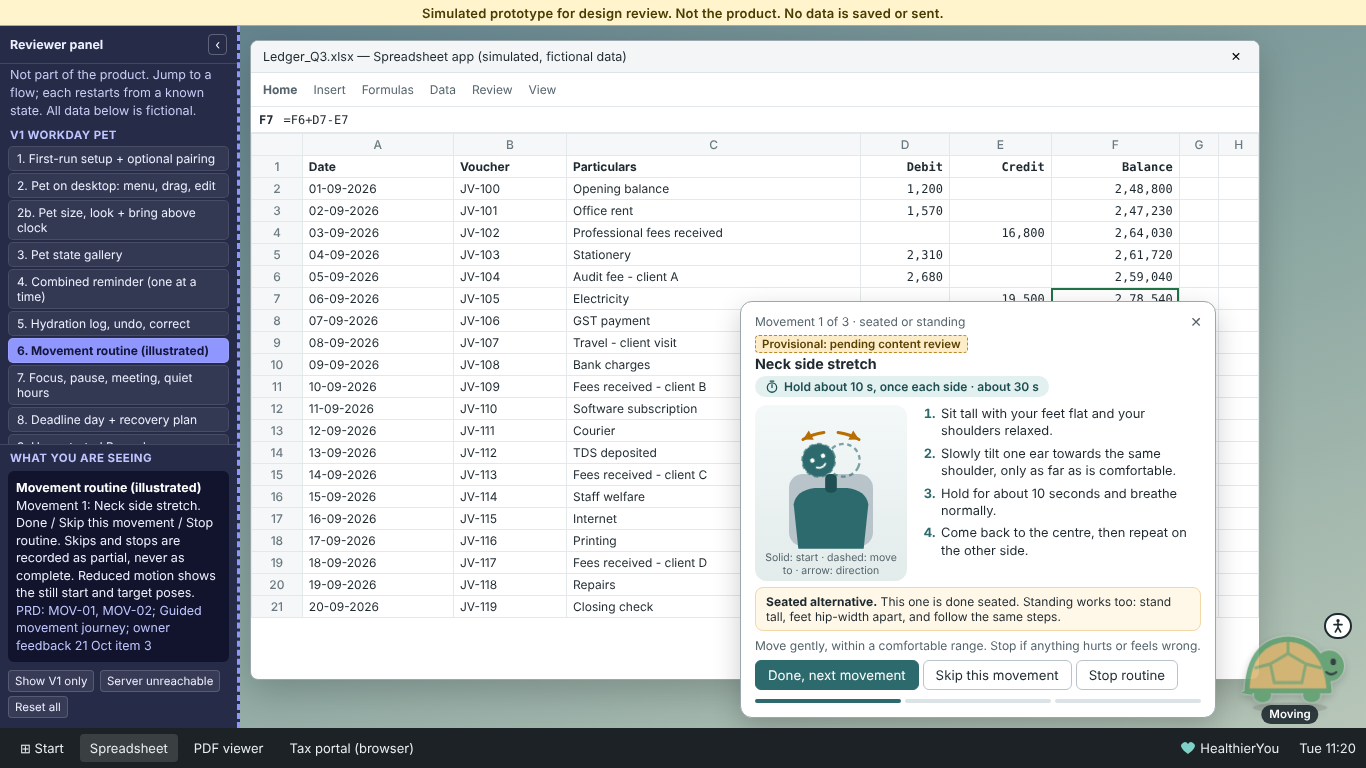
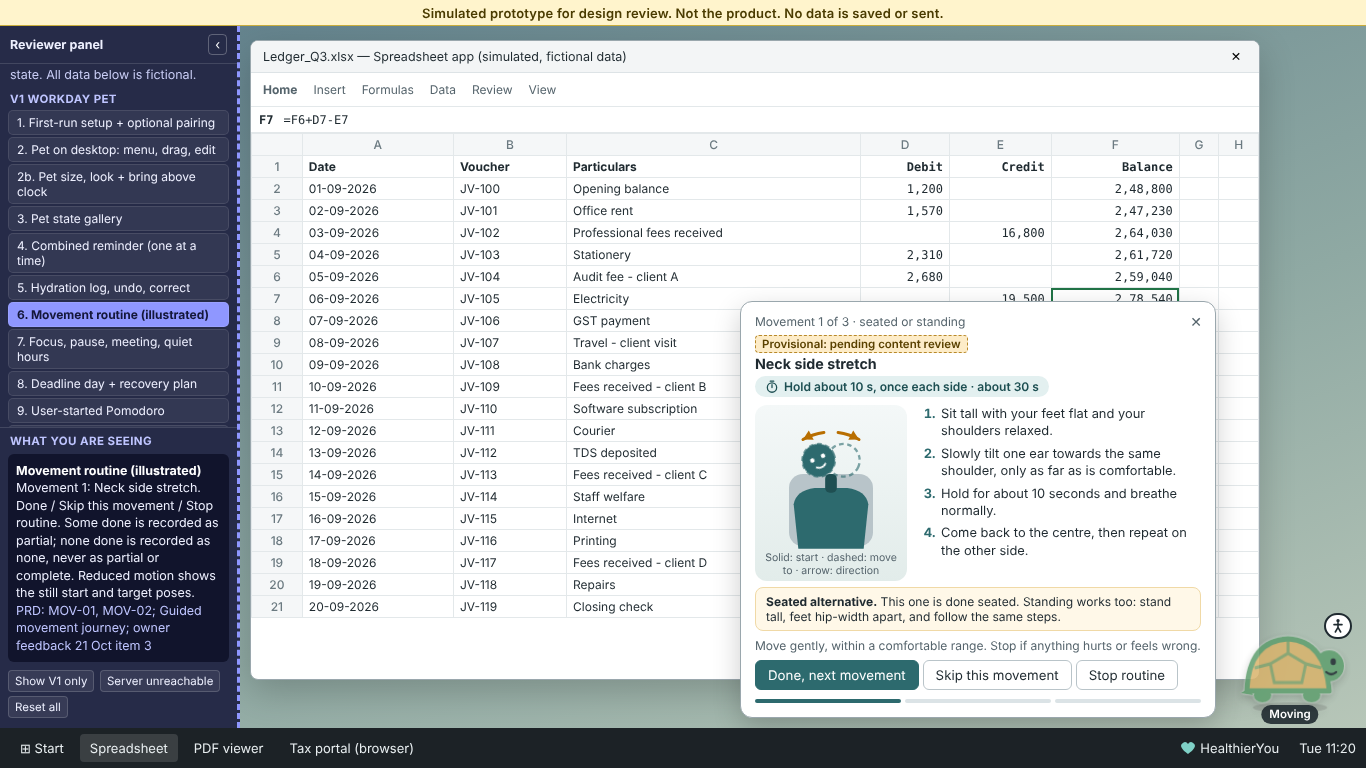
docs: prototype records zero-movement routines as none, not partial; neutral 0 legend
Claude-Session: https://claude.ai/code/session_01S4SDu6WPkLhv97iVu1GqDX

Changed region(s): [[0.0, 0.0938, 0.1845, 0.75]]

diff --git a/docs/prototype/index.html b/docs/prototype/index.html
@@ -1038,6 +1038,7 @@ function remStrip(){
       case 'done': return ['done', `Done ${hhmm(a.at)}, next ${hhmm(a.due)}`];
       case 'partial': return ['part', `Partly done ${hhmm(a.at)}`];
       case 'skipped': return ['skip', `Skipped ${hhmm(a.at)} (not done)`];
+      case 'none': return ['skip', `Stopped ${hhmm(a.at)}, none recorded`];
       case 'noresp': return ['skip', 'No response (not done)'];
       case 'notdue': return ['ok', 'On your pace, not due'];
       case 'goal': return ['done', 'Goal reached, paused'];
@@ -1072,11 +1073,12 @@ function remRecord(k, kind){
   const n = nowMin();
   if (kind === 'done'){ a.status = 'done'; a.at = n; a.due = n + ACTS[k].every; if (k === 'movement') a.since = n; }
   else if (kind === 'partial'){ a.status = 'partial'; a.at = n; a.due = n + ACTS[k].every; if (k === 'movement') a.since = n; }
+  else if (kind === 'none'){ a.status = 'none'; a.at = n; a.due = n + ACTS[k].every; } /* stopped or skipped with nothing done: quiet gap kept, movement clock (a.since) NOT reset */
   else if (kind === 'snooze'){ a.status = 'snoozed'; a.due = n + SNOOZE; }
   else if (kind === 'skip'){ a.status = 'skipped'; a.at = n; a.due = n + ACTS[k].every; S.dismissals++; }
   if (S.remActive === k) S.remActive = null;
   S.gapUntil = n + GAP;
-  remLog(`${ACTS[k].name}: ${({done: 'done', partial: 'partly done', snooze: `snoozed to ${hhmm(a.due)}`, skip: 'skipped (not done)'})[kind]}. Others unchanged.`);
+  remLog(`${ACTS[k].name}: ${({done: 'done', partial: 'partly done', none: 'stopped, none recorded', snooze: `snoozed to ${hhmm(a.due)}`, skip: 'skipped (not done)'})[kind]}. Others unchanged.`);
   renderRemRev();
 }
 function renderRemRev(){
@@ -1129,13 +1131,14 @@ function moveStep(){
     <p class="small muted" style="margin:2px 0">Move gently, within a comfortable range. Stop if anything hurts or feels wrong.</p>
     <div class="row" style="gap:0">${btn(m.step + 1 < keys.length ? 'Done, next movement' : 'Done, finish', 'mvDone', '', 'primary')}${btn('Skip this movement', 'mvSkip')}${btn('Stop routine', 'mvStop')}</div>
     <div class="mvDots" aria-hidden="true">${keys.map((_, i) => `<i class="${i <= m.step ? 'on' : ''}"></i>`).join('')}</div></div>`, {wide: 'x', expanded: true});
-  cap(`Movement ${m.step + 1}: ${r.name}. Done / Skip this movement / Stop routine. Skips and stops are recorded as partial, never as complete. Reduced motion shows the still start and target poses.`);
+  cap(`Movement ${m.step + 1}: ${r.name}. Done / Skip this movement / Stop routine. Some done is recorded as partial; none done is recorded as none, never as partial or complete. Reduced motion shows the still start and target poses.`);
 }
 function moveEnd(stopped){
-  const m = S.mv, n = PROGRAMME[m.day][1].length, full = m.done === n && !stopped;
+  const m = S.mv, n = PROGRAMME[m.day][1].length, full = m.done === n && !stopped, none = m.done === 0;
   setPet(full ? 'celebrate' : 'idle');
-  if (m.fromRem) remRecord('movement', full ? 'done' : 'partial');
+  if (m.fromRem) remRecord('movement', full ? 'done' : none ? 'none' : 'partial');
   say(full ? `<h4>Routine complete</h4><p>All ${n} movements done. Saved as <b>self-reported</b>.</p>`
+    : none ? `<h4>Stopped, none recorded</h4><p>No movements were marked done${m.skipped ? ` (${m.skipped} skipped)` : ''}. Nothing is counted as movement and your movement timer is not reset. No catch-up needed.</p>${btn('Try again later today', 'mvLater')}`
     : `<h4>Saved as partial</h4><p>${m.done} of ${n} movements done${m.skipped ? `, ${m.skipped} skipped` : ''}${stopped ? ', stopped early' : ''}. Recorded as partial (self-reported), not complete. No catch-up needed.</p>${btn('Try again later today', 'mvLater')}`);
   cap(full ? 'Complete: celebration state, self-reported label.' : 'Partial outcome shown honestly.');
   if (S.flow === 'reminder') renderRemRev();
@@ -1210,7 +1213,7 @@ function renderSug(k){
   if (S.sugApplied[k]) return `<b>Applied</b> &middot; <span class="small">${d.show(d.get())} (was ${d.show(S.sugPrev[k])})</span> ${btn('Undo', 'sugUndo', k, 'link')}`;
   return btn('Apply', 'sug', k, 'primary') + btn('Not for me', 'sugNo', k);
 }
-/* Per-day codes, Mon..Sun: d done/met, p partly, z 0 (app running, not done), n no data (app not running), o day off, s before you started, t today (in progress) */
+/* Per-day codes, Mon..Sun: d done/met, p partly, z 0 (app running, no completion logged), n no data (app not running), o day off, s before you started, t today (in progress) */
 const WEEK = {
   strong: {t:'Strong week', cov:'Recorded on 6 of 6 workdays', days:{move:'ddddddo', breaks:'ddpdppo', water:'ddddpdo'}, breaks:[20, 24],
     good:['Movement routine done on 6 of 6 scheduled days (self-reported).','Water logged up to your goal on 5 of 6 workdays.','20 of 24 offered breaks marked done.'], miss:['Wednesday afternoon break: snoozed twice, not done.'], sug:['keep'],
@@ -1226,7 +1229,7 @@ const WEEK = {
     hi:[['3 days', 'of water logging since you started', 'drop'], ['Thu', 'first routine completed', 'move']]},
 };
 const WK_ACTS = [['move', 'Movement', 'Movement routine', 'move', '#009E73', '#fff', 'days done'], ['breaks', 'Breaks', 'Breaks taken', 'bell', '#E69F00', '#1f2a30', 'breaks taken'], ['water', 'Water', 'Water goal', 'drop', '#0072B2', '#fff', 'goal days']];
-const MK = {d:['&#10003;', 'done'], p:['&#9680;', 'partly'], z:['0', '0 (app running, not done)'], n:['&ndash;', 'no data (app not running)'], o:['off', 'day off'], s:['&middot;', 'before you started'], t:['&middot;', 'today, in progress']};
+const MK = {d:['&#10003;', 'done'], p:['&#9680;', 'partly'], z:['0', '0 (none recorded)'], n:['&ndash;', 'no data (app not running)'], o:['off', 'day off'], s:['&middot;', 'before you started'], t:['&middot;', 'today, in progress']};
 const MKWORD = {d:'done', p:'partly', z:'0', n:'no data', o:'off', s:'not started', t:'today'};
 function wkCount(codes){ const c = {d:0, p:0, z:0, n:0}; codes.slice(0, 6).split('').forEach(x => { if (x in c) c[x]++; }); return c; }
 function wkCenter(act, v){ const c = wkCount(v.days[act]); return act === 'breaks' ? `${v.breaks[0]}/${v.breaks[1]}` : `${c.d}/${c.d + c.p + c.z}`; }
@@ -1256,7 +1259,7 @@ function reviewWin(){
   const visual = `<div class="wkRings">${WK_ACTS.map(([k, , label, ic, col, , unit]) => `<div class="wkRing" data-act="${k}">${ringSVG(k, label, col, unit, v)}<div><div class="nm" style="color:${col === '#E69F00' ? '#8a5a00' : col}">${icon(ic)} ${label}</div><div class="sub">${wkSub(k, v)}</div></div></div>`).join('')}</div>
     <div class="wkStrip" role="table" aria-label="Week strip, one column per day"><div role="row" style="display:contents"><div></div>${WK_DAYS.map(d => `<div class="dh" role="columnheader">${d}</div>`).join('')}</div>
     ${WK_ACTS.map(([k, short, label, ic, col, ct]) => `<div role="row" style="display:contents"><div class="rl" role="rowheader">${icon(ic, 14)} ${short}</div>${v.days[k].split('').map((x, i) => `<div class="mk ${x}" role="cell" data-code="${x}" style="--c:${col};--ct:${ct};animation-delay:${200 + i * 50}ms" title="${WK_DAYS[i]}: ${MK[x][1]}" aria-label="${label}, ${WK_DAYS[i]}: ${MK[x][1]}">${MK[x][0]}</div>`).join('')}</div>`).join('')}</div>
-    <div class="wkLegend" id="wkLegend"><span><i class="mk d">&#10003;</i>done</span><span><i class="mk p">&#9680;</i>partly</span><span><i class="mk z">0</i>0: app running, not done</span><span><i class="mk n">&ndash;</i>no data: app not running</span><span><i class="mk o">off</i>day off</span><span><i class="mk s">&middot;</i>not started / today</span></div>`;
+    <div class="wkLegend" id="wkLegend"><span><i class="mk d">&#10003;</i>done</span><span><i class="mk p">&#9680;</i>partly</span><span><i class="mk z">0</i>0: none recorded</span><span><i class="mk n">&ndash;</i>no data: app not running</span><span><i class="mk o">off</i>day off</span><span><i class="mk s">&middot;</i>not started / today</span></div>`;
   const table = `<div class="wkPlainView"><table class="t" id="wkTable"><tr><th>Activity</th>${WK_DAYS.map(d => `<th>${d}</th>`).join('')}<th>Summary</th></tr>${WK_ACTS.map(([k, , label]) => `<tr><td>${label}</td>${v.days[k].split('').map(x => `<td>${MKWORD[x]}</td>`).join('')}<td>${wkCenter(k, v)} ${WK_ACTS.find(a => a[0] === k)[6]}</td></tr>`).join('')}</table>
     <p class="small muted">"0" means the app was running and nothing was done or logged. "No data" means the app was not running; those days are not counted as misses.</p>
     <h3>What went well</h3><ul>${v.good.map(g => `<li>${g}</li>`).join('')}</ul>${v.miss.length ? `<h3>Planned but missed</h3><ul>${v.miss.map(g => `<li>${g}</li>`).join('')}</ul>` : ''}</div>`;

diff --git a/docs/Wireframes_V1_V2.md b/docs/Wireframes_V1_V2.md
@@ -609,3 +609,4 @@ These apply to the live product, not to the prototype. They do not start the bui
 - **Display change:** the simulation deliberately leaves the pet stranded (a missed display-change event) so the button's recovery is visible. Automatic clamping to the work area on display change remains a build acceptance item.
 - **Pomodoro break card:** it still lists look away, move and water together as suggestions, because it is a break the user started, not a due reminder. Owner to say if it should follow the one-at-a-time rule too.
 - **Evidence:** 171 of 171 state assertions pass (Claude-reported), 0 console errors, 0 network requests.
+- **Routine outcomes (Codex source review, 21 Oct):** all done is "done"; some done is "partial"; none done (immediate Stop or every movement skipped) is "Stopped, none recorded". Only done and partial reset the movement timer; none keeps the quiet gap without counting as movement. The weekly legend says "0: none recorded" so unlogged movement is not presented as proven inactivity.
